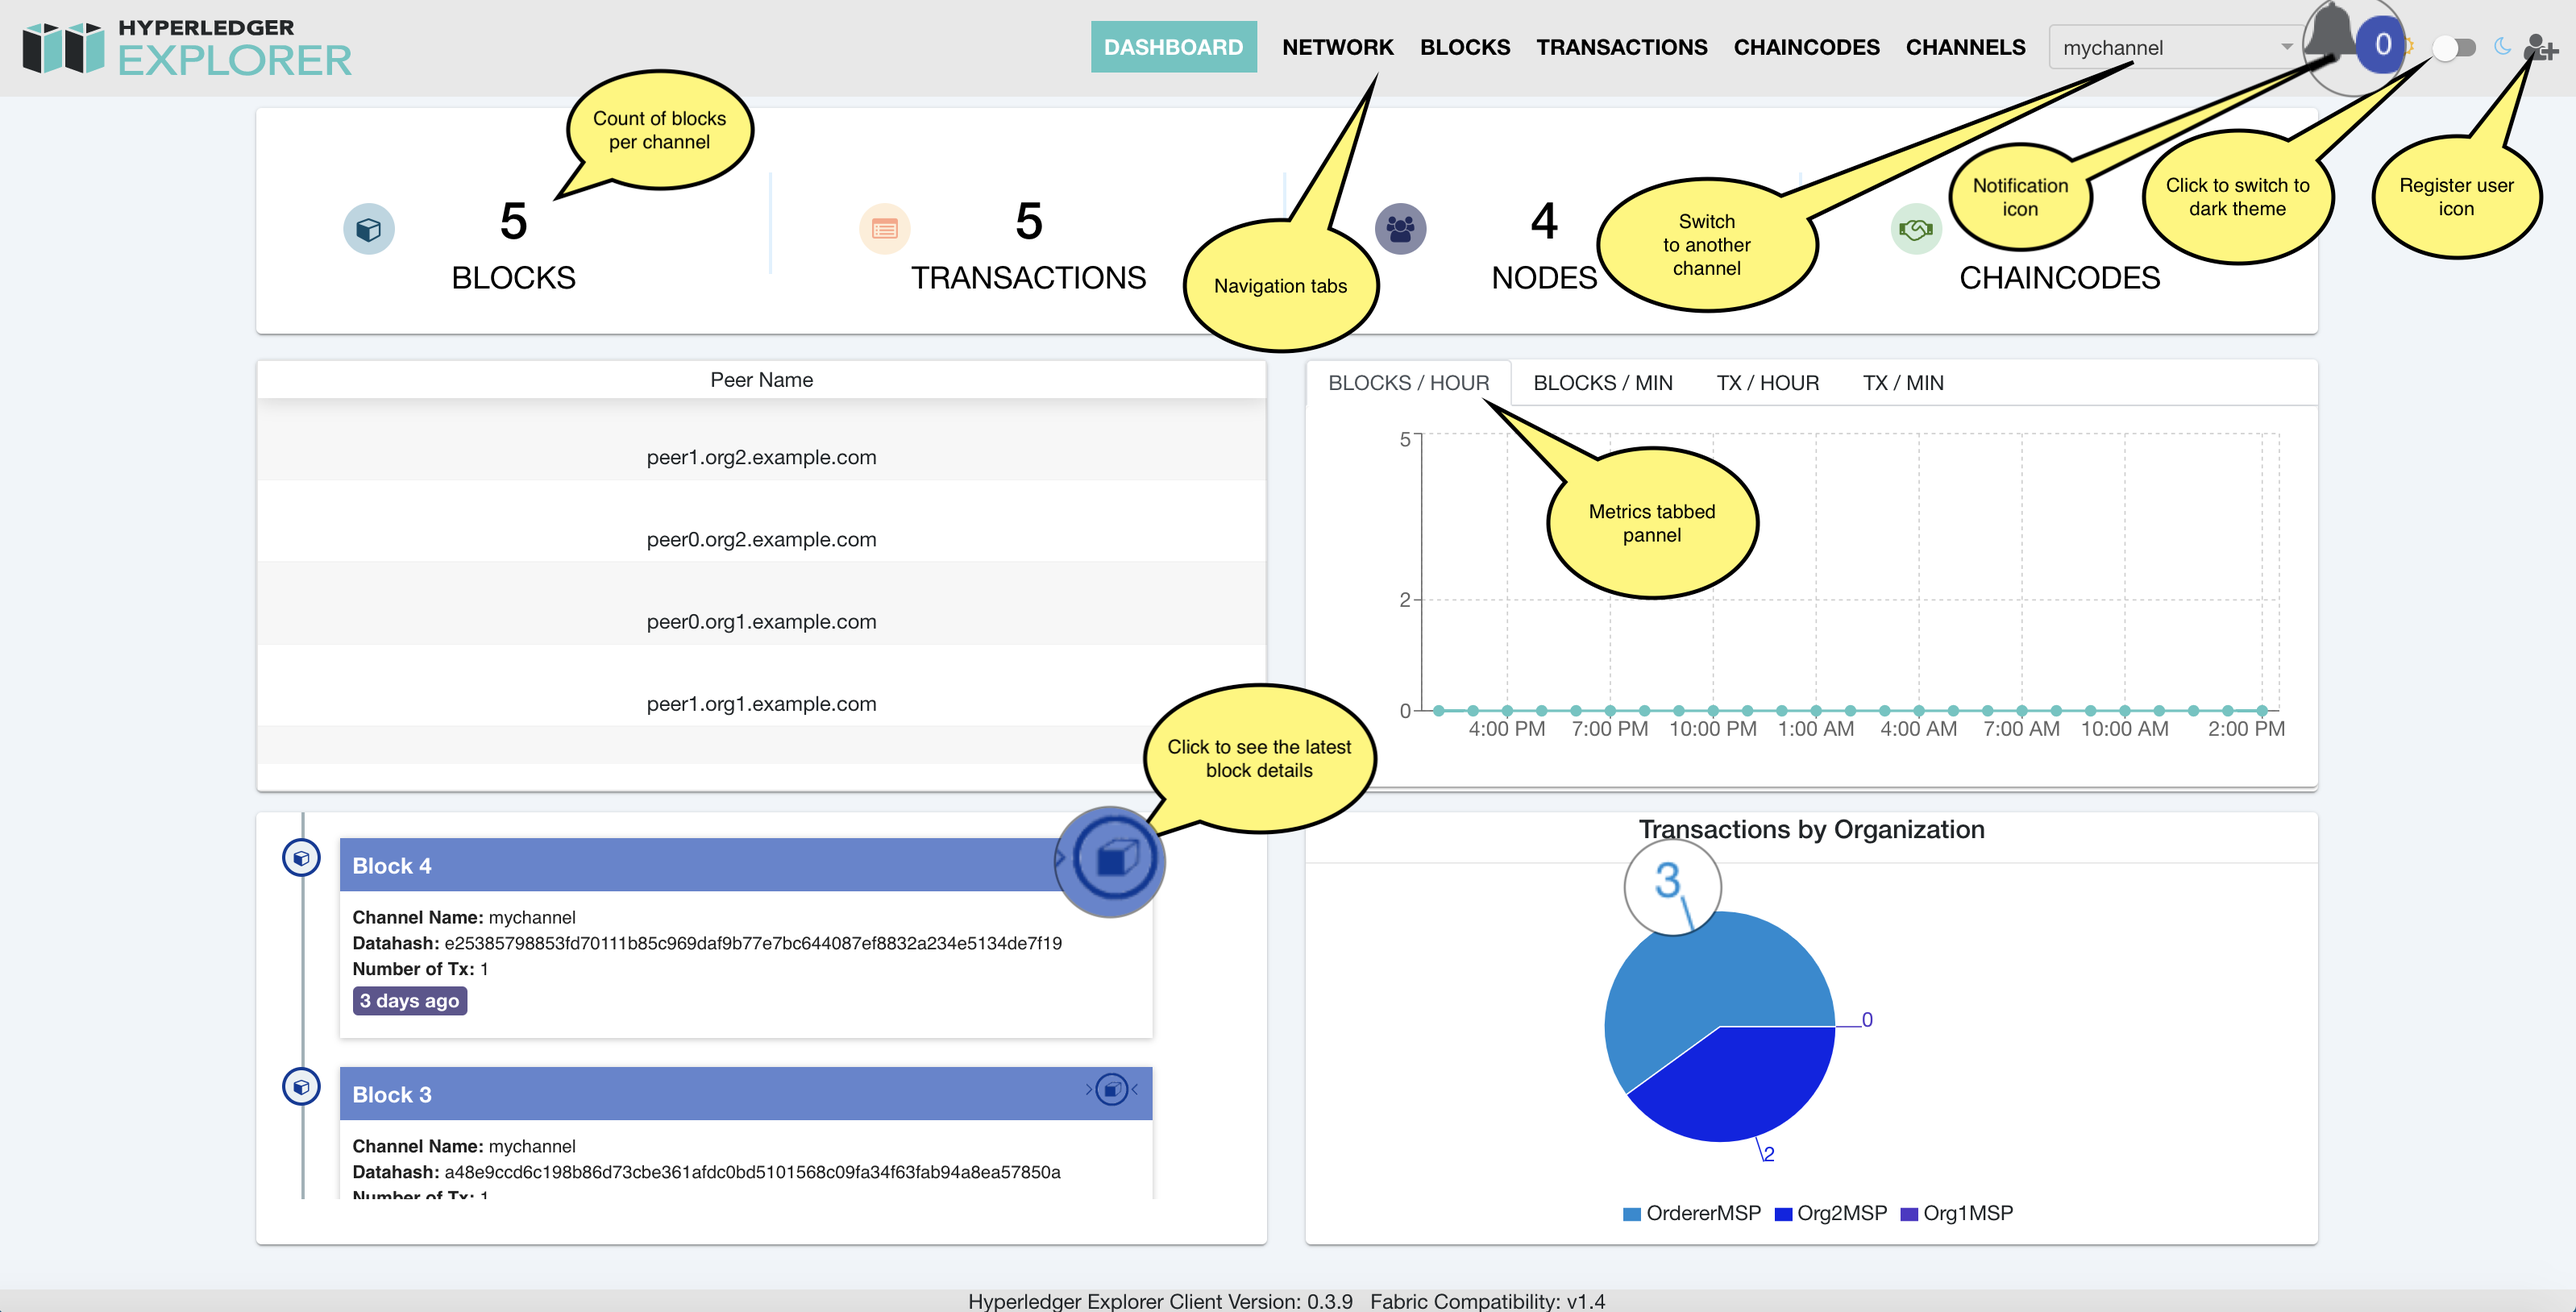
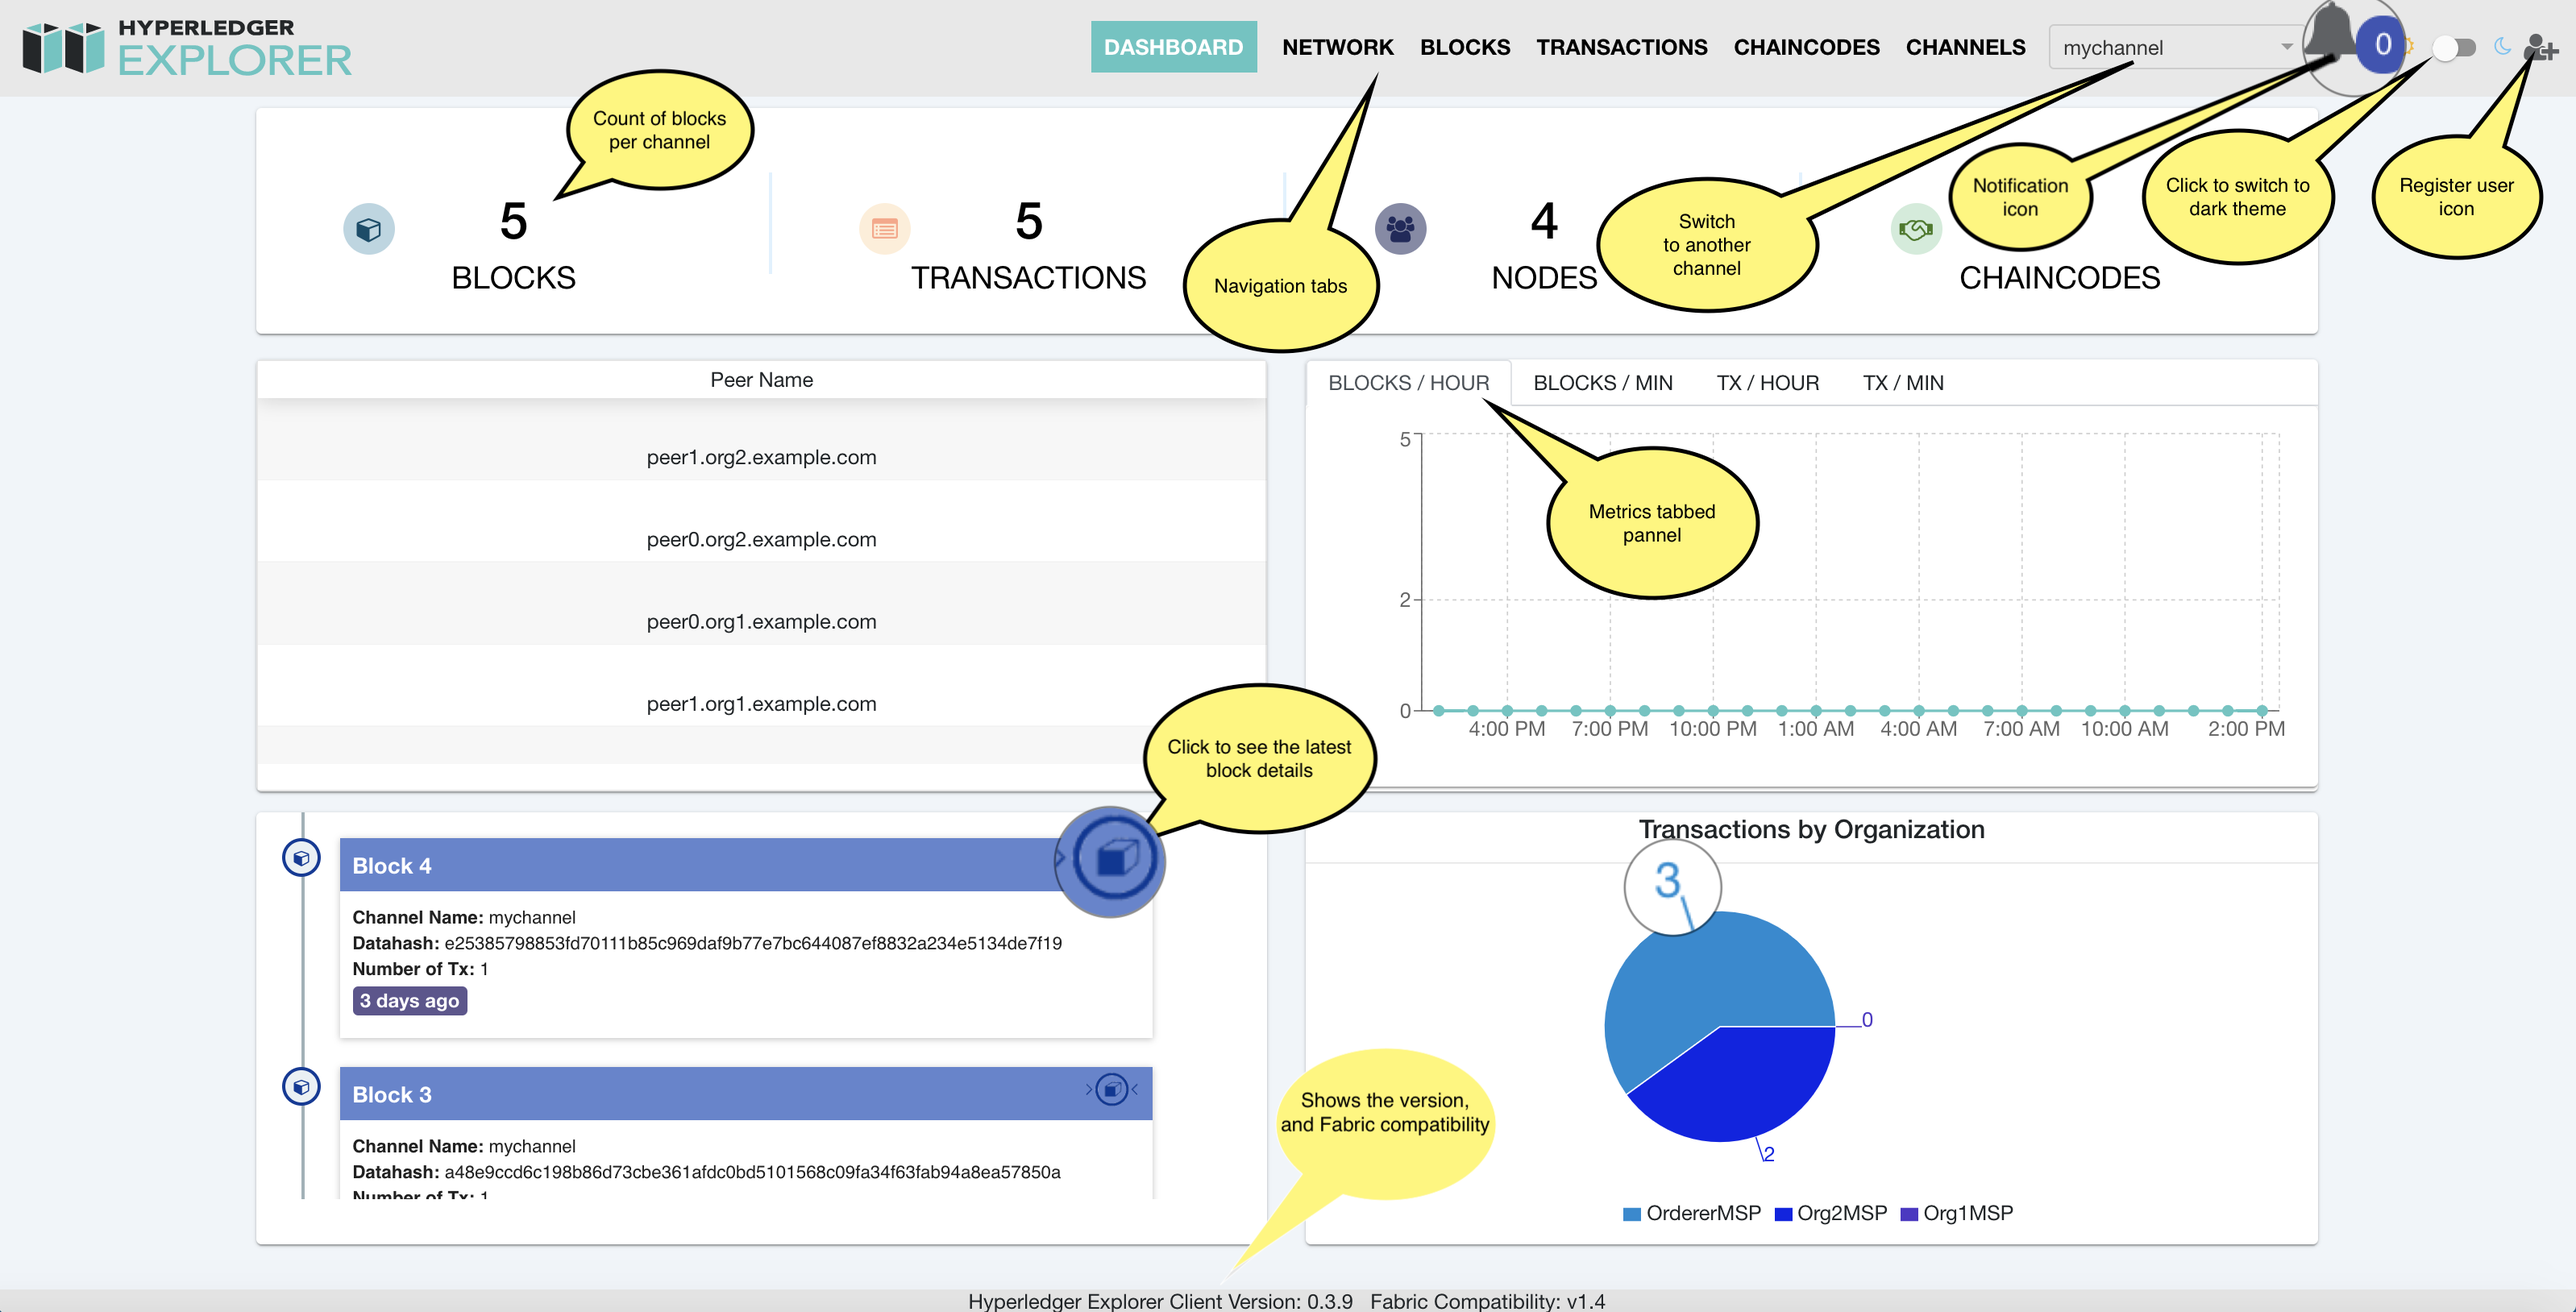
BE-704 Online documentation-synchronizer
* dashboard image updated
* updated run sync process

Changed region(s): [[0.4646, 0.7985, 0.5885, 0.9521]]

diff --git a/docs/source/presentation/hl_transaction_list.html b/docs/source/presentation/hl_transaction_list.html
@@ -13,9 +13,9 @@
 
 <p></p>
 <div class="container">
-	<input type="checkbox" id="hl_transaction_list">
-	<label for="hl_transaction_list">
-		<img src="../_static/images/hl_transaction_list.png">
+	<input type="checkbox" id="hle_tx_list">
+	<label for="hle_tx_list">
+		<img src="../_static/images/hle_tx_list.png">
 	</label>
 </div>
 

diff --git a/docs/source/getting_started.rst b/docs/source/getting_started.rst
@@ -5,8 +5,6 @@
 Getting Started with Hyperledger Explorer
 =========================================
 
-TODO
-
 
 Hyperledger Explorer can run in your local environment or using docker. Minimum configuration allows you to get it setup up, and running
 in short time.
@@ -16,62 +14,19 @@ run HL Explorer successfully. Along with the instructions you may find useful
 by community through the `mail listings <https://lists.hyperledger.org/g/explorer/topics>`__  or
 `Rocket Chat <https://chat.hyperledger.org/channel/hyperledger-explorer>`__ hyperledger-explorer channel.
 
+.. important::
 
+	See `Release Notes <https://github.com/hyperledger/blockchain-explorer/blob/master/README.md#10-release-notes---->`__ on supported Hyperledger Fabric and Explorer versions.
 
-
-Following are the software dependencies required to install and run hyperledger explorer:
-
-	* `Node.js <https://nodejs.org/en/>`__ 8.11.x (Note that v9.x is not yet supported)
-	* `PostgreSQL 9.5 or greater <https://www.postgresql.org/>`__
-	* `jq <https://stedolan.github.io/jq>`__, a lightweight and flexible command-line JSON processor
-	* Linux-based operating system, such as `Ubuntu <https://ubuntu.com/>`__ or MacOS
-
-Verified Docker versions supported:
-
-	* `Docker CE 18.09.2 or later <https://hub.docker.com/search/?type=edition&offering=community&operating_system=linux>`__
-	* `Docker Compose 1.14.0 <https://docs.docker.com/compose>`__
+..
 
 .. note::
 
-   See `Release Notes <https://github.com/hyperledger/blockchain-explorer/blob/master/README.md#10-release-notes---->`__ on supported Hyperledger Fabric and Explorer versions.
+	Hyperledger Explorer project team did not test, or setup to run explorer in kubernetes, a contributor did a tremendous job in setting it,
+	and added an explanation on how to set it up.
+	If you're interested to experiment, and willing to give a try, please see `running explorer in kubernetes <https://github.com/feitnomore/hyperledger-fabric-kubernetes>`__.
 
-
-.. container:: content-tabs
-
-    .. tab-container:: local
-        :title: Run locally
-
-
-        Assuming that your environment has the required software dependencies, follow up `instructions <https://github.com/hyperledger/blockchain-explorer/blob/master/README.md>`__  on how to setup Hyperledger Explorer to run in your local environment
-
-
-    .. tab-container:: cloud
-        :title: Run in cloud
-
-        Content for Running HL Explorer in cloud
-
-    .. tab-container:: docker
-        :title: Run in docker
-
-        Content for Running HL Explorer in docker
-
-    .. tab-container:: kubernetes
-        :title: Run in kubernetes
-
-								Hyperledger Explorer project team did not test, or setup to run explorer in kubernetes, but someone did a tremendous job in setting it,
-								and added an explanation on how to set it up.
-								If you're interested to experiment, and willing to give a try you're more than welcomed.
-								Please let us know if you succeeded in `running explorer in kubernetes <https://github.com/feitnomore/hyperledger-fabric-kubernetes>`__.
-
-
-
-
-
-
-
-
-.. add a short overview, and rely on links in current README of the github
-
+..
 
 .. Licensed under Creative Commons Attribution 4.0 International License
    https://creativecommons.org/licenses/by/4.0/

diff --git a/docs/source/architecture/sync_configuration.rst b/docs/source/architecture/sync_configuration.rst
@@ -47,13 +47,11 @@ Configuration
     .. tab-container:: run_standalone
         :title: Run host (Standalone)
 
-							   .. code-block:: json
-
-														{
-															"sync": {
-															"type": "host"
-															}
-														}
+							  * From new terminal (if Sync Process in Standalone).
+									
+										* ``cd blockchain-explorer/``
+										* ``./syncstart.sh`` (it will have the sync node up).
+										* ``./syncstop.sh`` (it will stop the sync node).
 
 
     .. tab-container:: run_local
@@ -65,7 +63,7 @@ Configuration
 											* ``./start.sh`` (it will have the backend up).
 											* ``./start.sh debug`` (it will have the backend in debug mode).
 											* ``./start.sh print`` (it will print help).
-											* Launch the URL ``http(s)://localhost:8080`` on a browser.
+											* Launch the URL ``http(s)://<host>:<port>`` on a browser.
 											* ``./stop.sh`` (it will stop the node server).
 
 
@@ -75,7 +73,7 @@ Configuration
 			* Please restart Explorer if any changes made to explorerconfig.json.
 
 			  * If the Hyperledger Explorer was used previously in your browser be sure to clear the cache before relaunching.
-			  * If Hyperledger Fabric network is deployed on other machine, please toggle DISCOVERY_AS_LOCALHOST in ``start.sh / syncstart.sh to 'false'``.
+			  * If Hyperledger Fabric network is deployed on other machine, please toggle ``DISCOVERY_AS_LOCALHOST`` in ``start.sh / syncstart.sh to 'false'``.
 
 
 

diff --git a/docs/source/presentation/index.rst b/docs/source/presentation/index.rst
@@ -40,7 +40,7 @@ Each panel reflects the historical, metrics, and the latest activity per selecte
 Latest blocks notification panel
 --------------------------------
 The latest block notification panel displays the block number, channel name, datahash, and the number of transactions per block.
-There is an  :guilabel:`icon link` if clicked, it will show the latest block details, and is located in the right most corner of the panel. In the picture below you can see
+There is an  :guilabel:`icon link` to show the latest block details, and is located in the right most corner of the panel. In the picture below you can see
 the block details accessed from the provided link.
 
 
@@ -108,7 +108,8 @@ The :guilabel:`Reset` button can be used to reset the date range, and the organi
 
 Transaction list
 -----------------
-Transaction list screen has almost identical functionality as the block list screen.
+Transaction list screen has almost identical functionality as the block list screen, the number of rows per page, up to 100, can be selected from
+the drop down, next and previous buttons allow to navigate the direction of results, back or forward.
 
 .. raw:: html
      :file: ./hl_transaction_list.html

diff --git a/docs/source/introduction.rst b/docs/source/introduction.rst
@@ -26,12 +26,12 @@ What are the key features of Hyperledger Explorer?
 		- Get real time notification of new blocks.
 
 
-Please proceed to next page, or click the link below to get familiar with Hyperledger Explorer screens.
+.. Please proceed to next page, or click the link below to get familiar with Hyperledger Explorer screens.
 
-.. toctree::
+.. .. toctree::
    :maxdepth: 1
 
-   presentation/index
+..   presentation/index
 
 
 
